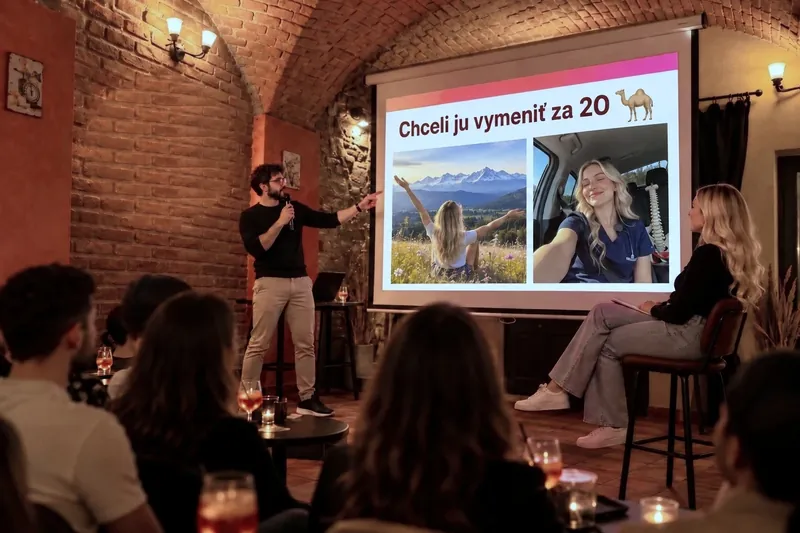
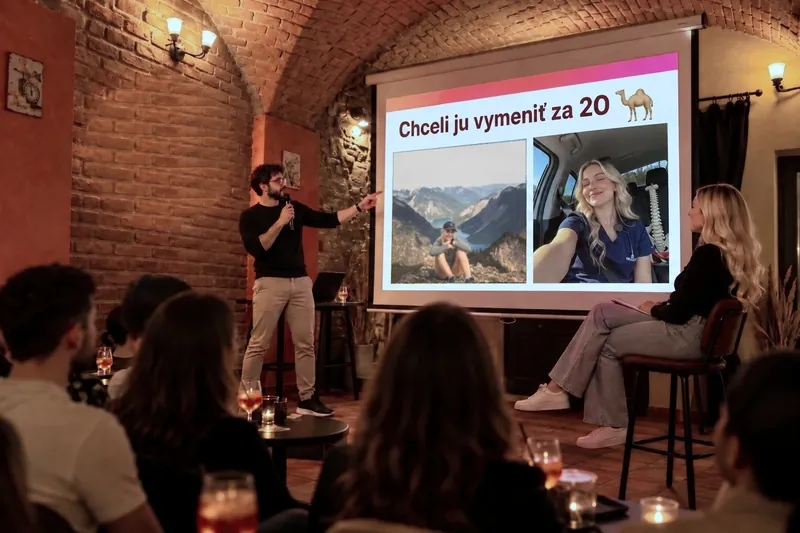
Úvod: na plátne reálna fotka namiesto AI obrázka

Changed region(s): [[0.4688, 0.2402, 0.6562, 0.5403]]

diff --git a/index.html b/index.html
@@ -73,7 +73,7 @@
         </div>
         <div class="hs-media">
           <div class="hero-photo">
-            <img fetchpriority="high" class="hero-img" src="img/hero-podium-aperio.webp?v=4" srcset="img/hero-podium-aperio-800.webp?v=4 800w, img/hero-podium-aperio.webp?v=4 1600w" sizes="(max-width: 760px) 100vw, 50vw" alt="Kamoš na pódiu v APERIO Café &amp; Bar predstavuje svoju single kamarátku, za nimi plátno s jej fotkami" width="1600" height="1067">
+            <img fetchpriority="high" class="hero-img" src="img/hero-podium-aperio.webp?v=5" srcset="img/hero-podium-aperio-800.webp?v=5 800w, img/hero-podium-aperio.webp?v=5 1600w" sizes="(max-width: 760px) 100vw, 50vw" alt="Kamoš na pódiu v APERIO Café &amp; Bar predstavuje svoju single kamarátku, za nimi plátno s jej fotkami" width="1600" height="1067">
           </div>
         </div>
       </div>
